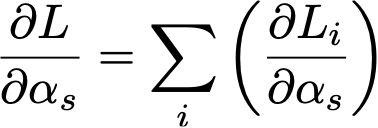
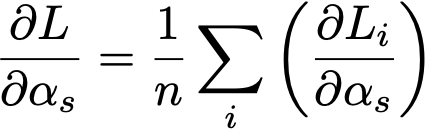
Fix equations.

diff --git a/equations/loocv-derivative-sum.tex b/equations/loocv-derivative-sum.tex
@@ -4,5 +4,6 @@
 \usepackage{amsmath} %maths
 \usepackage[utf8]{inputenc} %useful to type directly diacritic characters
 \begin{document}
-\begin{align*}\frac{\partial L}{\partial \alpha_s} = \sum_i \left( \frac{\partial L_i}{\partial \alpha_s} \right)\end{align*}
+\[\frac{\partial L}{\partial \alpha_s} = \frac{1}{n}\sum_i \left( \frac{\partial L_i}{\partial \alpha_s} \right)
+\]
 \end{document}

diff --git a/equations/loocv-def.tex b/equations/loocv-def.tex
@@ -4,5 +4,6 @@
 \usepackage{amsmath} %maths
 \usepackage[utf8]{inputenc} %useful to type directly diacritic characters
 \begin{document}
-\begin{align*}\sum_i \left| y_i - \boldsymbol{x}_i^T \boldsymbol{\hat{b}}_{-i,\Gamma} \right|^2\end{align*}
+\[\frac{1}{n}\sum_i \left| y_i - \boldsymbol{x}_i^T \boldsymbol{\hat{b}}_{-i,\Gamma} \right|^2
+\]
 \end{document}

diff --git a/equations/gamma-def2.tex b/equations/gamma-def2.tex
@@ -4,11 +4,11 @@
 \usepackage{amsmath} %maths
 \usepackage[utf8]{inputenc} %useful to type directly diacritic characters
 \begin{document}
-\[  \boldsymbol \Gamma =
+\[\boldsymbol \Gamma =
   \begin{bmatrix}
     \alpha_{1} & & \\
     & \ddots & \\
-    & & \alpha_{k}
+    & & \alpha_{p}
   \end{bmatrix}
 \]
 \end{document}

diff --git a/equations/loocv-rewrite6.tex b/equations/loocv-rewrite6.tex
@@ -4,5 +4,6 @@
 \usepackage{amsmath} %maths
 \usepackage[utf8]{inputenc} %useful to type directly diacritic characters
 \begin{document}
-\begin{align*}\sum_i \left| \frac{y_i - \hat{y}_i}{1 - h_i} \right|^2\end{align*}
+\[\frac{1}{n}\sum_i \left| \frac{y_i - \hat{y}_i}{1 - h_i} \right|^2
+\]
 \end{document}
